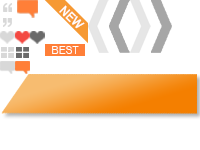
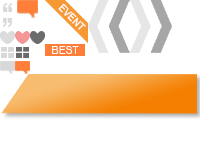
하트 및 로고 변경

diff --git a/jtown/src/main/webapp/resources/css/home.css b/jtown/src/main/webapp/resources/css/home.css
@@ -43,7 +43,7 @@ word-wrap: break-word; /* Internet Explorer 5.5+ */}
 .jt-home-shop-comment:HOVER{ background-position: -15px -60px;}
 
 .jt-home-shop-love-click{background: url("../images/jt-home-icon.png") -15px -30px no-repeat !important;}
-.jt-home-shop-love-text-click{color: #f34942 !important;}
+.jt-home-shop-love-text-click{color: #f59697 !important;}
 
 .jt-home-shop-new-event{position: absolute; width: 313px; padding-top: 3px;}
 /**
